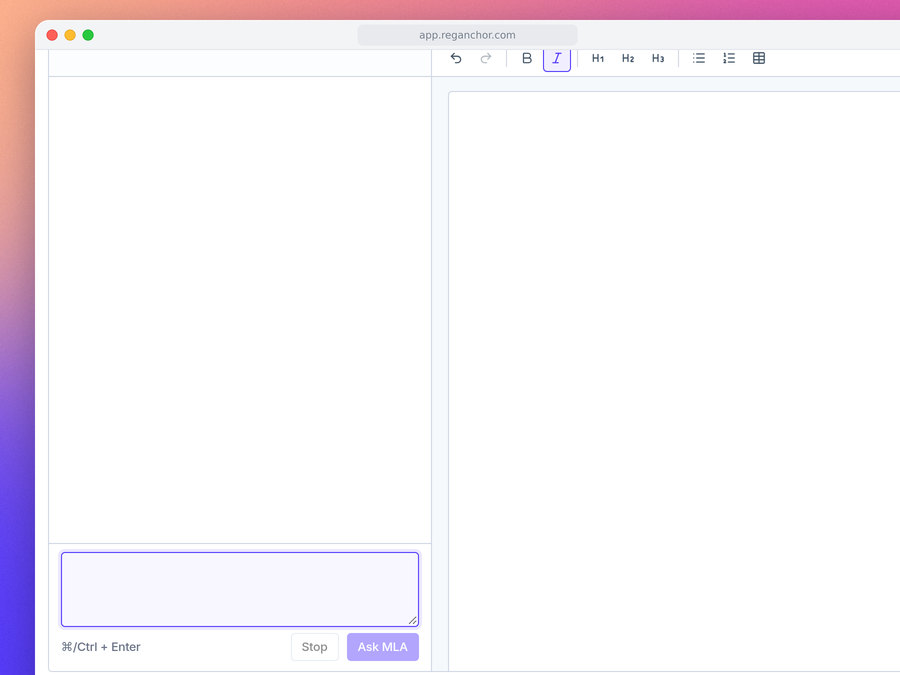
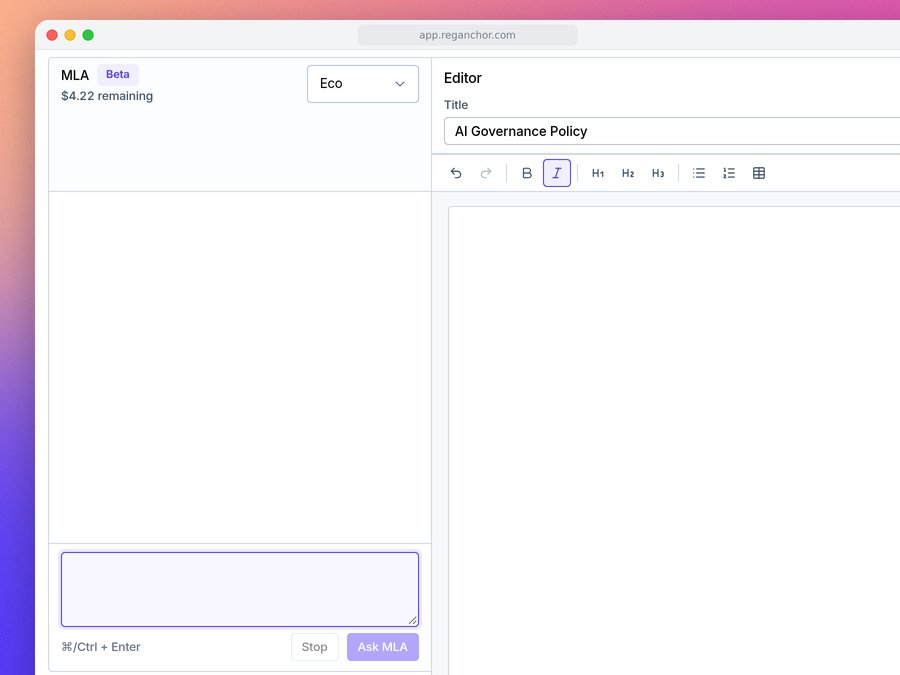
pages.html: MLA desktop crop with headers, 4 principles + Jessica bullet

diff --git a/pages.html b/pages.html
@@ -236,7 +236,7 @@ var io=new IntersectionObserver(function(es){es.forEach(function(e){if(e.isInter
 .ra-mla-chat picture,.ra-mla-chat picture img{position:absolute;inset:0;width:100%;height:100%;display:block;max-width:none;margin:0}
 .ra-mla-chat .S{position:absolute;left:0;top:0;width:1800px;height:1350px;transform-origin:0 0;pointer-events:none}
 .ra-mla-chat .C{position:absolute;left:70px;top:100px;width:1730px;height:1250px;overflow:hidden;contain:strict}
-.ra-mla-chat .L{position:absolute;left:0;top:-228px;width:2360px;height:1498px;color:#000;font-size:28px;line-height:39.2px;font-variation-settings:'opsz' 32;font-optical-sizing:none;transition:opacity .45s}
+.ra-mla-chat .L{position:absolute;left:0;top:2px;width:2360px;height:1498px;color:#000;font-size:28px;line-height:39.2px;font-variation-settings:'opsz' 32;font-optical-sizing:none;transition:opacity .45s}
 .ra-mla-chat .chat,.ra-mla-chat .doc{position:absolute;inset:0;contain:layout paint;isolation:isolate}
 @media (max-width:600px){
 .ra-mla-chat{aspect-ratio:1150/1582}
@@ -273,6 +273,7 @@ var io=new IntersectionObserver(function(es){es.forEach(function(e){if(e.isInter
 .ra-mla-chat .doc .bul{position:absolute;left:908px;width:9px;height:9px;border-radius:50%;background:#000;opacity:0}
 .ra-mla-chat .doc .hl{background:rgb(243,227,215);border-radius:4px;padding:2px 2px 3px}
 .ra-mla-chat .doc div{position:absolute;font-variation-settings:'opsz' 31;left:901px;white-space:nowrap;line-height:1}
+@media (min-width:601px){.ra-mla-chat .in{top:1017.6px}.ra-mla-chat .ask{top:1164px}.ra-mla-chat .doc .lo{visibility:hidden}.ra-mla-chat .doc .up{transform:translateY(-52px)}}
 </style>
 <picture><source media="(max-width:600px)" srcset="assets/images-page/mla/m-base.jpg 1x, assets/images-page/mla/m-base@2x.jpg 2x"><img src="assets/images-page/mla/d-base.jpg" srcset="assets/images-page/mla/d-base.jpg 1x, assets/images-page/mla/d-base@2x.jpg 2x" alt="" width="900" height="675" decoding="async"></picture>
 <div class="S"><div class="C"><div class="L">
@@ -307,18 +308,19 @@ PHE.textContent=PH;var qT=tx(QT);
 // reply: one span+text node per line
 var RL=A.map(function(_,i){var s=el('span');if(i)RT.appendChild(el('br'));RT.appendChild(s);return {s:s,n:tx(s),v:''}});
 // doc lines: one div per line, one text node per run
-var DL=D.map(function(d){var div=el('div');div.style.top=(d[0]-0.137*d[1]).toFixed(1)+'px';div.style.fontSize=d[1]+'px';div.style.fontWeight=d[2];if(d[3])div.style.left='930px';if(d[5])div.style.letterSpacing=d[5]+'px';
- var runs=d[4].map(function(r){var host=div;if(r[2]){host=el('span','hl');div.appendChild(host)}else if(r[1]!=400){host=el('b');host.style.fontWeight=r[1];div.appendChild(host)}var n=tx(host);return {t:r[0],n:n,host:host,v:0}});
- DOC.appendChild(div);var b=null;if(d[3]){b=el('i','bul');b.style.top=(d[0]+9)+'px';DOC.appendChild(b)}
- return {div:div,runs:runs,len:d[4].reduce(function(a,r){return a+r[0].length},0),b:b,m:-1,bo:-1}});
+var DESK=!mq.matches;
+var DL=D.map(function(d,ix){var cz=ix>=15||ix===10?'lo':ix>=11?'up':'';var div=el('div');div.style.top=(d[0]-0.137*d[1]).toFixed(1)+'px';div.style.fontSize=d[1]+'px';div.style.fontWeight=d[2];if(d[3])div.style.left='930px';if(d[5])div.style.letterSpacing=d[5]+'px';
+ var runs=d[4].map(function(r){var host=div;if(r[2]){host=el('span','hl');host.style.display='none';div.appendChild(host)}else if(r[1]!=400){host=el('b');host.style.fontWeight=r[1];div.appendChild(host)}var n=tx(host);return {t:r[0],n:n,host:host,v:0}});
+ if(cz)div.classList.add(cz);DOC.appendChild(div);var b=null;if(d[3]){b=el('i','bul');if(cz)b.classList.add(cz);b.style.top=(d[0]+9)+'px';DOC.appendChild(b)}
+ return {sk:DESK&&cz==='lo',div:div,runs:runs,len:d[4].reduce(function(a,r){return a+r[0].length},0),b:b,m:-1,bo:-1}});
 var s=7;function rnd(){s=(s*16807)%2147483647;return s/2147483647}
 var tType=[],t=1000;for(var i=0;i<Q.length;i++){t+=45+rnd()*55+(Q[i]==' '?25:0);tType.push(t)}
 var tSend=t+300,tThink=tSend+420,steps=['Reviewing 18 registered AI systems','Mapping to EU AI Act and ISO 42001','Drafting policy'];
 var tSteps=[tThink+950,tThink+950+780,tThink+950+1560],tReply=tThink+950+2340;
 var toks=[],tt=tReply+250;A.forEach(function(line,li){var w=line.split(' '),j=0;while(j<w.length){var n=1+Math.floor(rnd()*3);j=Math.min(w.length,j+n);tt+=25+rnd()*15;toks.push([tt,li,j])}});
 var tReplyEnd=tt;
-var dTot=DL.reduce(function(a,d){return a+d.len},0),tDoc=tReply+500,cps=3.4,tDocEnd=tDoc+dTot*cps+D.length*90;
-var TEND=Math.max(tReplyEnd,tDocEnd)+3000,TOTAL=TEND+700;
+var dTot=DL.reduce(function(a,d){return a+(d.sk?0:d.len)},0),nVis=DL.filter(function(d){return !d.sk}).length,tDoc=tReply+500,cps=3.4,tDocEnd=tDoc+dTot*cps+nVis*90;
+var TEND=Math.max(tReplyEnd,tDocEnd)+2200,TOTAL=TEND+700;
 // write-only-on-change helpers
 var C={};function cls(k,e,c,on){var key=k+c;if(C[key]===on)return;C[key]=on;e.classList.toggle(c,on)}
 function setv(k,v,f){if(C[k]===v)return;C[k]=v;f(v)}
@@ -348,8 +350,8 @@ function render(T,fin){
  var caretOn=T>=tReply&&T<tReplyEnd+400;
  setv('rc',caretOn?Math.max(lastLi,0):-1,function(v){place(cRe,v>=0?RL[v].s:null)});
  // doc
- var c=T<tDoc?0:Math.floor((T-tDoc)/cps),acc=0,host=null;
- for(var i=0;i<DL.length;i++){var d=DL[i],start=acc+i*90/cps,m=Math.max(0,Math.min(d.len,Math.floor(c-start)));acc+=d.len;
+ var c=T<tDoc?0:Math.floor((T-tDoc)/cps),acc=0,gi=0,host=null;
+ for(var i=0;i<DL.length;i++){var d=DL[i],start=acc+gi*90/cps,m=d.sk?0:Math.max(0,Math.min(d.len,Math.floor(c-start)));if(!d.sk){acc+=d.len;gi++}
   if(d.m!==m){d.m=m;var k=m;d.runs.forEach(function(r){var w=Math.max(0,Math.min(r.t.length,k));k-=r.t.length;if(r.v!==w){r.v=w;r.n.data=r.t.slice(0,w);if(r.host.className==='hl')r.host.style.display=w?'':'none'}})}
   if(d.b){var bo=m>0?1:0;if(d.bo!==bo){d.bo=bo;d.b.style.opacity=bo}}
   if(T>=tDoc&&m>0&&(m<d.len||(i===DL.length-1&&T<tDocEnd+600))){var rr=d.runs[0],kk=m;for(var j=0;j<d.runs.length;j++){if(kk<=d.runs[j].t.length){rr=d.runs[j];break}kk-=d.runs[j].t.length}host=rr.host}
